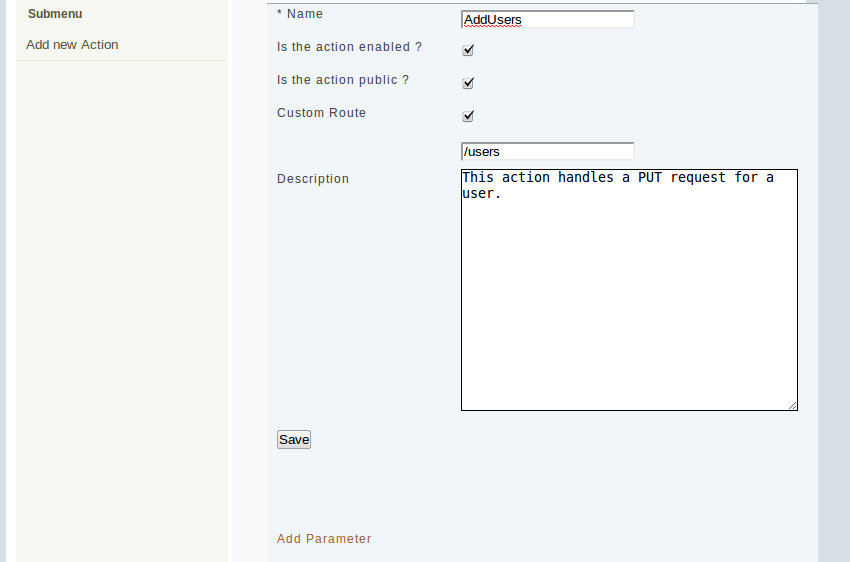
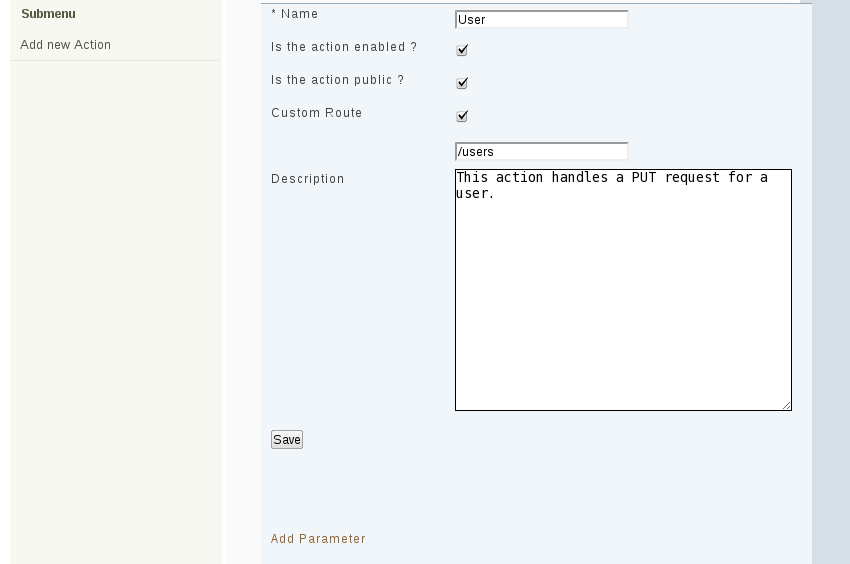
- Fixing spelling mistake - Updating example images with better naming convention

diff --git a/developing/creating-actions.html b/developing/creating-actions.html
@@ -117,7 +117,7 @@
 
 <p><img src="/images/admin_add_action_example2.png" alt="Add User action" /></p>
 
-<p>Once you ahve the above data entered, click "Save" to save your action. Then "Sync Now" to have Frapi generate the skeleton code in your FRAPI_PATH/src/frapi/custom/Action directory.</p>
+<p>Once you have the above data entered, click "Save" to save your action. Then "Sync Now" to have Frapi generate the skeleton code in your FRAPI_PATH/src/frapi/custom/Action directory.</p>
 
 <p>Now that your skeleton code has been created please proceed to the <a href="coding-actions.html">Coding Actions</a> section for details on how to code the actions you just created.</p>
 
